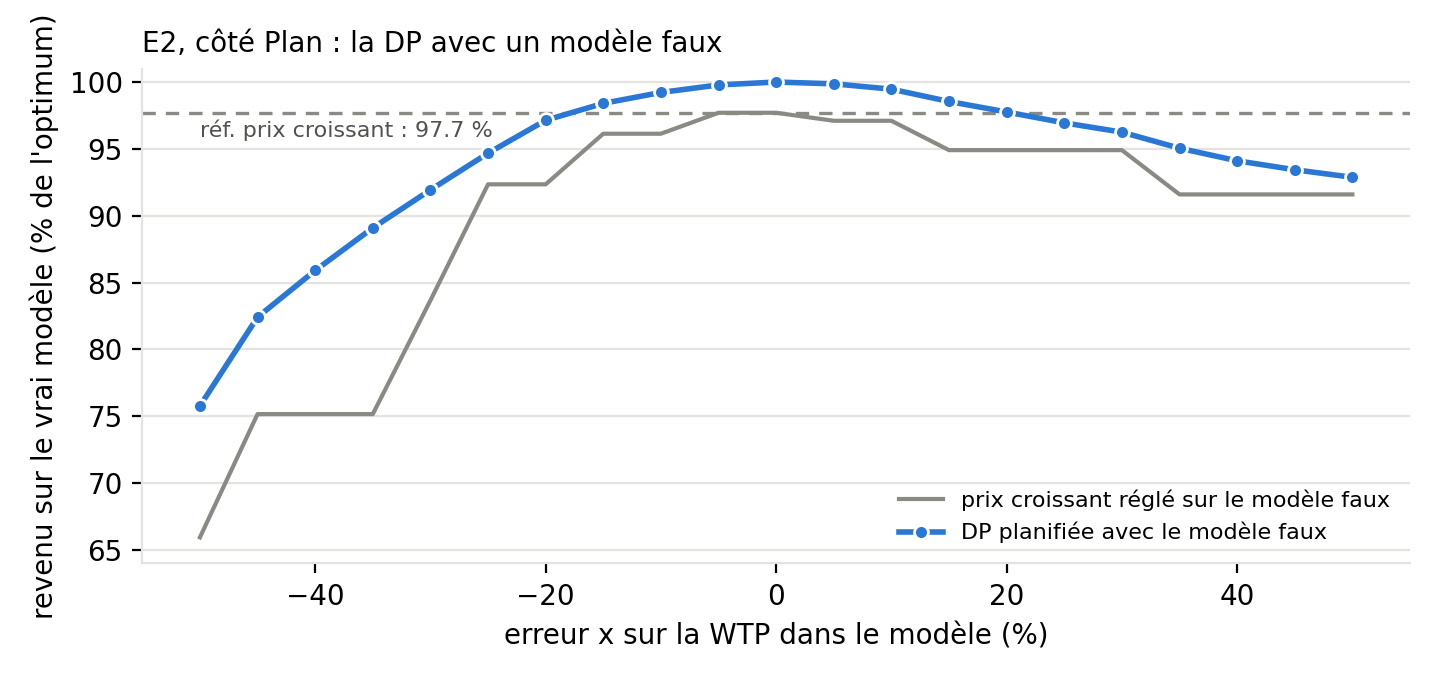
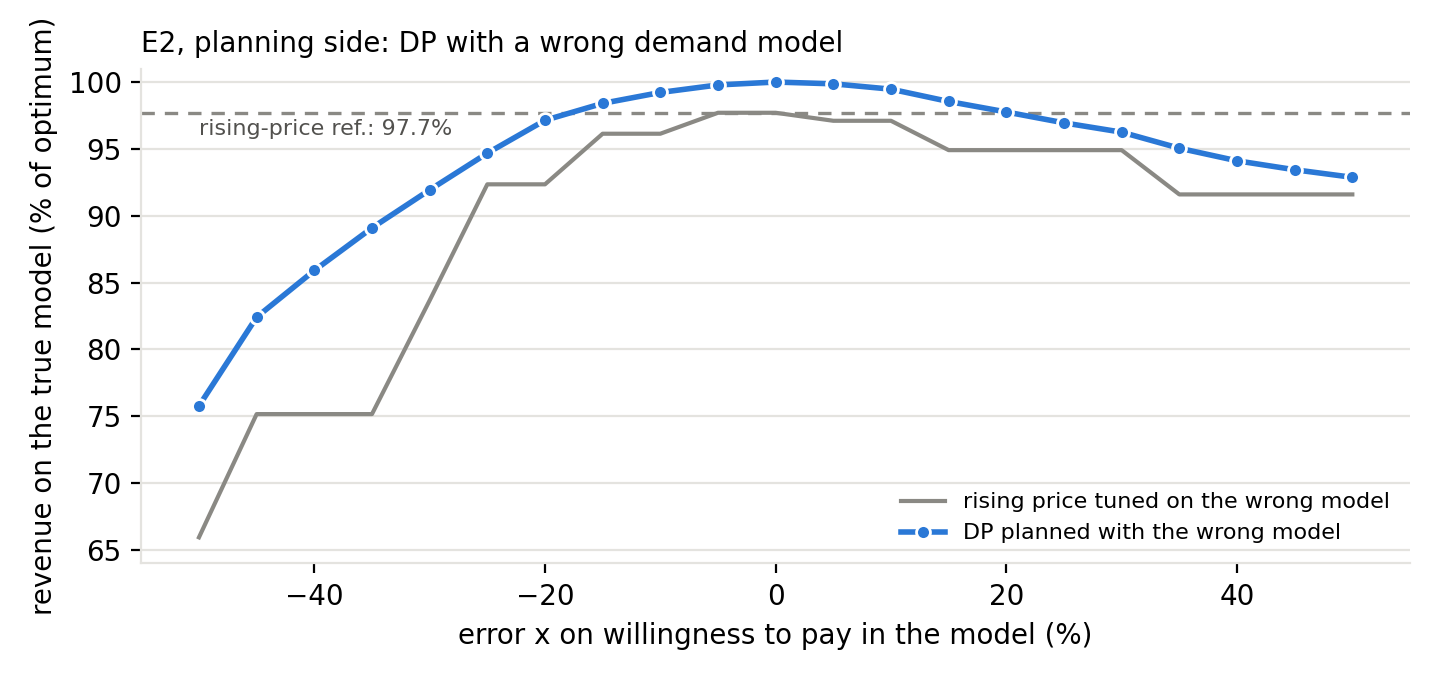
Start the report (LaTeX, English) and switch figure labels to English
Introduction, problem, methods and the DP results are written; parts that
depend on Q-learning are marked TODO.

refs #22

diff --git a/report/report.tex b/report/report.tex
@@ -1,0 +1,132 @@
+\documentclass[10pt,twocolumn,a4paper]{article}
+
+\usepackage[utf8]{inputenc}
+\usepackage[T1]{fontenc}
+\usepackage[margin=1.6cm,columnsep=0.6cm]{geometry}
+\usepackage{amsmath,amssymb}
+\usepackage{graphicx}
+\usepackage{booktabs}
+\usepackage{eurosym}
+\usepackage{xcolor}
+\usepackage[hidelinks]{hyperref}
+\usepackage{titlesec}
+\usepackage{enumitem}
+
+\graphicspath{{../results/figures/}}
+\titlespacing*{\section}{0pt}{6pt}{3pt}
+\titlespacing*{\subsection}{0pt}{4pt}{2pt}
+\setlist{nosep,leftmargin=*}
+\setlength{\parskip}{2pt}
+\setlength{\abovecaptionskip}{3pt}
+\setlength{\textfloatsep}{6pt}
+
+% Texte à compléter quand les résultats du Q-learning seront disponibles
+\newcommand{\todo}[1]{\textcolor{red}{[TODO: #1]}}
+
+\title{\vspace{-1.2cm}\textbf{Plan or Learn? Dynamic Pricing of Airline Tickets under Model Error}}
+\author{Imane Amraoui \and Dia Eddine Kadri\\
+\small Reinforcement Learning course (J.~Martinet), Polytech SI5-IAID, 2026--2027\\
+\small Code: \url{https://github.com/kadridiaa/airline-dynamic-pricing-RL}}
+\date{\vspace{-0.8cm}}
+
+\begin{document}
+\maketitle
+
+\section{Introduction}
+An airline sells the seats of a flight over 30 days and sets a price every day.
+If the demand model is known, Dynamic Programming (DP) computes the optimal pricing policy.
+In practice the model is estimated, hence wrong.
+Model-free temporal-difference learning (Q-learning) needs no model, only interaction, but needs many episodes.
+\textbf{Research question:} from which level of model error does learning without a model (Q-learning) outperform planning with a wrong model (DP), for a given budget of episodes?
+
+\section{Problem formulation}
+\textbf{MDP.} The state is $s=(c,t)$ with $c\in\{0,\dots,10\}$ seats left and $t\in\{0,\dots,30\}$ days to departure.
+The six actions are prices $p\in\{50,80,110,140,170,200\}$\,\euro.
+Selling $k$ seats gives the reward $r=p\,k$ and the transition $(c,t)\to(c-k,\,t-1)$; the episode ends at departure ($t=0$) or when the plane is full ($c=0$).
+We use $\gamma=1$ (finite horizon), which gives 341 states and 2\,046 state-action values.
+Keeping $t$ in the state makes the process Markov: the optimal price depends on the time left.
+
+\textbf{Demand model.} Two customer segments arrive as Poisson processes:
+leisure customers ($\lambda_L=0.8$/day if $t>10$, $0.3$ otherwise) and business customers ($\lambda_B=0.1$, then $1.0$ in the last 10 days).
+Willingness to pay (WTP) is exponential with mean $m_L=80$\,\euro{} and $m_B=180$\,\euro, so a customer buys with probability $e^{-p/m}$.
+By Poisson thinning, daily demand is $D\sim\mathrm{Poisson}(\mu)$ with $\mu(t,p)=\lambda_L(t)e^{-p/m_L}+\lambda_B(t)e^{-p/m_B}$, and sales are $k=\min(D,c)$, hence $P(k=c)=P(D\ge c)$.
+
+\textbf{Capacity.} With 20 seats, even at 50\,\euro{} only 19.3 customers buy on average: the plane is almost never full and a myopic policy (maximising today's revenue, i.e.\ $\gamma\approx 0$) loses only 0.1\,\%.
+With $C=10$, ignoring the future costs 18.9\,\%, the load factor is 77\,\% and 23\,\% of flights sell out.
+What matters is the demand/capacity ratio, not the absolute number of seats.
+
+\section{Methods}
+\textbf{DP.} The Bellman optimality equation reads
+\begin{equation*}
+V^*(c,t)=\max_a \sum_{k=0}^{c} P(k\mid c,t,a)\,\big[p_a k+\gamma V^*(c-k,\,t-1)\big],
+\end{equation*}
+with $V^*(c,0)=V^*(0,t)=0$.
+Since $V^*(\cdot,t)$ only depends on $V^*(\cdot,t-1)$, a single backward sweep from $t=1$ to $t=30$ is exact (no iteration to convergence is needed, unlike value iteration in infinite horizon).
+
+\textbf{Model error.} The DP receives a demand model in which both WTP means are multiplied by $(1+x)$, $x\in[-50\,\%,+50\,\%]$.
+We perturb the WTP rather than the arrival rates because an error on $\lambda$ costs the DP at most 5\,\% of revenue.
+
+\textbf{Q-learning and SARSA.} Tabular, $Q=0$ at start, $\varepsilon$-greedy exploration with $\varepsilon$ starting at 1 and decaying; off-policy update $Q(s,a)\leftarrow Q(s,a)+\alpha\,[r+\gamma\max_{a'}Q(s',a')-Q(s,a)]$, and the on-policy SARSA variant. They only interact with the simulator and never see the model.
+\todo{final $\alpha$ and $\varepsilon$ schedule (issue \#14)}
+
+\textbf{Baselines.} Best fixed price, and best linearly rising price schedule (21 start/end pairs).
+
+\textbf{Evaluation.} Every policy is scored by the same function on the \emph{true} model: exact policy evaluation (finite-horizon iterative policy evaluation), cross-checked with 10\,000 simulated flights.
+The metric is the percentage of the optimal revenue; learning methods use 10 seeds.
+Consistency checks: the DP value lies in the 95\,\% confidence interval of its simulated revenue, and no wrong-model DP or baseline beats the true-model DP.
+
+\section{Results}
+\begin{table}[t]
+\centering\small
+\begin{tabular}{@{}lrrr@{}}
+\toprule
+Policy (true model) & Revenue & \% opt. & Load \\
+\midrule
+DP (optimum) & 1\,193.5\,\euro & 100.0 & 77\,\% \\
+Rising price 140$\to$170\,\euro & 1\,166.1\,\euro & 97.7 & 74\,\% \\
+Fixed price 170\,\euro & 1\,146.7\,\euro & 96.1 & 68\,\% \\
+Q-learning & \todo{} & \todo{} & \todo{} \\
+SARSA & \todo{} & \todo{} & \todo{} \\
+\bottomrule
+\end{tabular}
+\caption{Expected revenue per flight ($C=10$, $T=30$).}
+\label{tab:main}
+\end{table}
+
+\textbf{Optimal policy} (Fig.~\ref{fig:policy}). The price never increases with the number of seats left, jumps to 170\,\euro{} or more when business customers arrive ($t\le 10$), and, with many seats left, drops to 80\,\euro{} at $t=11$--$12$ to sell to the last leisure customers.
+A simple rising schedule already reaches 97.7\,\% (Table~\ref{tab:main}): the value of planning over a well-tuned heuristic is small.
+
+\begin{figure}[t]
+\centering
+\includegraphics[width=\columnwidth]{policy_dp.png}
+\caption{Optimal DP policy: price as a function of seats left and days to departure. Business customers arrive from $t=10$ (orange line).}
+\label{fig:policy}
+\end{figure}
+
+\textbf{Planning with a wrong model} (E2, Fig.~\ref{fig:e2}). The DP stays above 97\,\% of the optimum for $|x|\le 20\,\%$.
+Errors are asymmetric: underestimating the WTP ($x=-50\,\%$) yields 75.8\,\% because the plane sells out too cheaply (88\,\% of flights full), against 92.9\,\% at $x=+50\,\%$.
+For the same wrong model, the DP always beats the rising-price heuristic tuned on that model.
+\todo{Q-learning level for each budget of episodes, and tipping point (E2)}
+
+\begin{figure}[t]
+\centering
+\includegraphics[width=\columnwidth]{e2_dp_side.png}
+\caption{E2: revenue on the true model of the DP planned with a wrong WTP. \todo{add Q-learning levels per budget}}
+\label{fig:e2}
+\end{figure}
+
+\todo{E1: episodes to reach 95\,\% of the optimum. E3: Q-learning vs DP policies. E4: effect of $\gamma\in\{1,0.9,0.5\}$.}
+
+\section{Discussion and conclusion}
+\todo{answer to the research question: tipping point between planning and learning.}
+The advantage of planning over a simple heuristic is small (2.3\,\%), so a moderate model error is enough to lose it; and the direction of the error matters more than its size.
+\textbf{Limitations:} synthetic demand, a single perturbed parameter, tabular methods.
+\textbf{Perspective:} realistic aircraft (150+ seats) make tabular methods impractical; value function approximation would be needed.
+
+\begin{thebibliography}{9}\small
+\setlength{\itemsep}{0pt}
+\bibitem{sutton} R.~S.~Sutton and A.~G.~Barto. \emph{Reinforcement Learning: An Introduction}, 2nd ed., MIT Press, 2018.
+\bibitem{gallego} G.~Gallego and G.~van Ryzin. Optimal dynamic pricing of inventories with stochastic demand over finite horizons. \emph{Management Science}, 40(8):999--1020, 1994.
+\end{thebibliography}
+
+\end{document}

diff --git a/experiments/e2_dp_side.py b/experiments/e2_dp_side.py
@@ -75,20 +75,20 @@ xs = 100 * ERRORS
 fig, ax = plt.subplots(figsize=(7.2, 3.4))
 ax.axhline(100 * oracle_rising.revenue / optimum, color=GREY, linewidth=1.2, linestyle=(0, (4, 3)))
 ax.text(xs[0], 100 * oracle_rising.revenue / optimum - 0.5,
-        f"réf. prix croissant : {100 * oracle_rising.revenue / optimum:.1f} %",
+        f"rising-price ref.: {100 * oracle_rising.revenue / optimum:.1f}%",
         ha="left", va="top", fontsize=8, color=INK2)
-ax.plot(xs, [r["rising_pct"] for r in rows], color=GREY, linewidth=1.5, label="prix croissant réglé sur le modèle faux")
+ax.plot(xs, [r["rising_pct"] for r in rows], color=GREY, linewidth=1.5, label="rising price tuned on the wrong model")
 ax.plot(xs, [r["dp_pct"] for r in rows], color=BLUE, linewidth=2, marker="o", markersize=5,
-        markeredgecolor="white", markeredgewidth=1, label="DP planifiée avec le modèle faux")
-ax.set_xlabel("erreur x sur la WTP dans le modèle (%)")
-ax.set_ylabel("revenu sur le vrai modèle (% de l'optimum)")
+        markeredgecolor="white", markeredgewidth=1, label="DP planned with the wrong model")
+ax.set_xlabel("error x on willingness to pay in the model (%)")
+ax.set_ylabel("revenue on the true model (% of optimum)")
 ax.set_ylim(64, 101)
 for s in ("top", "right"):
     ax.spines[s].set_visible(False)
 ax.spines["left"].set_color(GRID); ax.spines["bottom"].set_color(GRID)
 ax.grid(axis="y", color=GRID, linewidth=0.8); ax.set_axisbelow(True)
 ax.legend(frameon=False, loc="lower right", fontsize=8)
-ax.set_title("E2, côté Plan : la DP avec un modèle faux", loc="left", fontsize=10)
+ax.set_title("E2, planning side: DP with a wrong demand model", loc="left", fontsize=10)
 fig.tight_layout()
 fig_path = os.path.join(ROOT, "results", "figures", "e2_dp_side.png")
 fig.savefig(fig_path, dpi=200)

diff --git a/src/plots.py b/src/plots.py
@@ -48,8 +48,8 @@ def plot_policy(policy, ax=None, title=None, capacity=10, horizon=30, switch_day
 
     ax.set_xticks(range(0, horizon, 2), [str(t) for t in range(horizon, 0, -2)])
     ax.set_yticks(range(capacity), [str(c) for c in range(capacity, 0, -1)])
-    ax.set_xlabel("jours restants t (le temps avance vers la droite)")
-    ax.set_ylabel("sièges restants c")
+    ax.set_xlabel("days to departure t (time flows to the right)")
+    ax.set_ylabel("seats left c")
     ax.set_xticks(np.arange(-0.5, horizon), minor=True)
     ax.set_yticks(np.arange(-0.5, capacity), minor=True)
     ax.grid(which="minor", color="white", linewidth=1.5)

diff --git a/experiments/plot_dp_policy.py b/experiments/plot_dp_policy.py
@@ -20,7 +20,7 @@ from plots import plot_policy  # noqa: E402
 
 V, policy = solve_dp(DemandModel())
 fig, ax = plt.subplots(figsize=(7.2, 2.9))
-plot_policy(policy, ax=ax, title=f"Politique optimale (DP-vrai) — revenu espéré {V[10, 30]:.1f} €")
+plot_policy(policy, ax=ax, title=f"Optimal policy (true-model DP), expected revenue {V[10, 30]:.1f} €")
 fig.tight_layout()
 
 out_dir = os.path.join(ROOT, "results", "figures")
